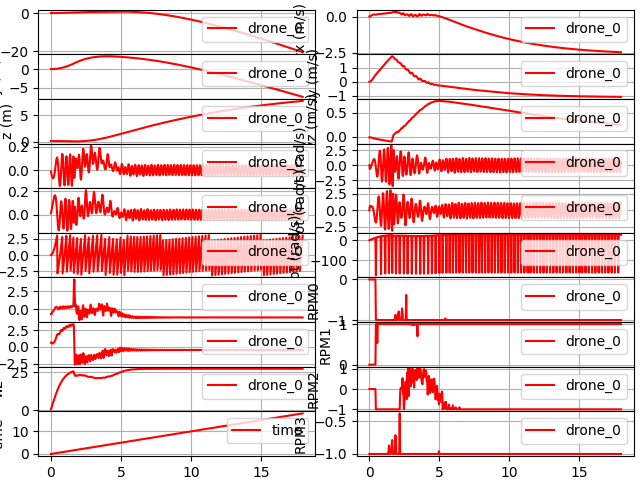
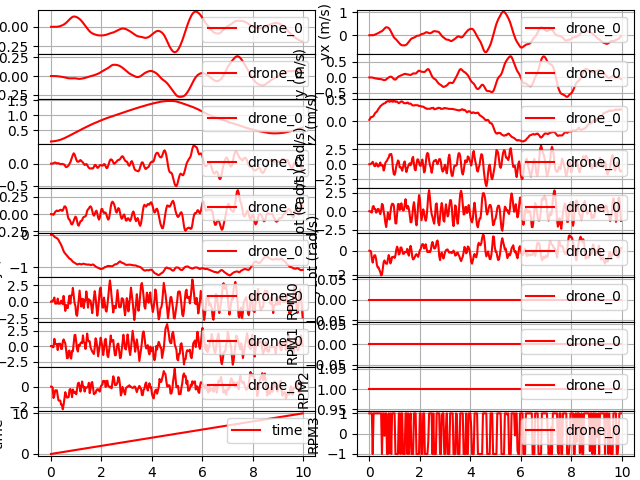
Better reward for hover

diff --git a/gym_pybullet_drones/envs/HoverAviary.py b/gym_pybullet_drones/envs/HoverAviary.py
@@ -49,7 +49,7 @@ class HoverAviary(BaseRLFlyToAviary):
             The type of action space (1 or 3D; RPMS, thurst and torques, or waypoint with PID control)
 
         """
-        self.EPISODE_LEN_SEC = 16
+        self.EPISODE_LEN_SEC = 8
         self.total_timesteps = 0
         super().__init__(drone_model=drone_model,
                          num_drones=1,
@@ -63,40 +63,38 @@ class HoverAviary(BaseRLFlyToAviary):
                          obs=obs,
                          act=act
                          )
-        self.TARGET_POINT = np.array([1, 1, 1])
+        self.TARGET_POINT = np.array([0, 1, 1])
 
     ################################################################################
-    
+
     def _computeReward(self):
-        """Computes the current reward value.
-
-        Returns
-        -------
-        float
-            The reward.
-
-        """
-        self.total_timesteps += 1
-
-        if self.total_timesteps % 100000 == 0:
-            self.TARGET_POINT = generate_random_target_point()
-        # if self.total_timesteps % 1000 == 0:
-        #     print(self.TARGET_POINT)
         state = self._getDroneStateVector(0)
-        distance = np.linalg.norm(self.TARGET_POINT - state[0:3])
+        pos = state[0:3]
+        vel = state[10:13]
+        rpy = state[7:10]
 
-        # Define max possible distance (depends on your environment)
-        max_distance = np.linalg.norm(self.TARGET_POINT)  # Adjust if necessary
+        vec_to_target = self.TARGET_POINT - pos
+        dist = np.linalg.norm(vec_to_target)
 
-        # Normalize reward to be between 0 and 1
-        EPS = 1e-6
-        reward = - distance
+        # Distance reward (normalized)
+        distance_reward = 1 - np.tanh(dist)
 
+        # Penalty for high velocity (to prevent crashing)
+        velocity_penalty = -0.05 * np.linalg.norm(vel)
 
-        return reward  # Ensure reward is non-negative
+        # Orientation penalty (to discourage excessive tilting and crashes)
+        orientation_penalty = -0.5 * (abs(rpy[0]) + abs(rpy[1]))
+
+        # Bonus for being very close to the target
+        close_enough_bonus = 10.0 if dist < 0.05 else 0.0
+
+        # Time penalty to encourage faster task completion
+        time_penalty = -0.02
+
+        return distance_reward + velocity_penalty + orientation_penalty + close_enough_bonus + time_penalty
 
     ################################################################################
-    
+
     def _computeTerminated(self):
         """Computes the current done value.
 
@@ -106,14 +104,15 @@ class HoverAviary(BaseRLFlyToAviary):
             Whether the current episode is done.
 
         """
-        state = self._getDroneStateVector(0)
-        if np.linalg.norm(self.TARGET_POINT - state[0:3]) < .0001:
+        threshold = .0001
+        dist = self.TARGET_POINT - self.pos[0, :]
+        if dist @ dist < threshold * threshold:
             return True
         else:
             return False
-        
+
     ################################################################################
-    
+
     def _computeTruncated(self):
         """Computes the current truncated value.
 
@@ -123,12 +122,12 @@ class HoverAviary(BaseRLFlyToAviary):
             Whether the current episode timed out.
 
         """
-        state = self._getDroneStateVector(0)
-        if (abs(state[0]) > 1.5 or abs(state[1]) > 1.5 or state[2] > 2.0 # Truncate when the drone is too far away
-             or abs(state[7]) > .4 or abs(state[8]) > .4 # Truncate when the drone is too tilted
+        dist = self.TARGET_POINT - self.pos[0, :]
+        if (dist @ dist > (self.TARGET_POINT @ self.TARGET_POINT) * 2  # Truncate when the drone is too far away
+                or abs(self.rpy[0, 0]) > .4 or abs(self.rpy[0, 1]) > .4  # Truncate when the drone is too tilted
         ):
             return True
-        if self.step_counter/self.PYB_FREQ > self.EPISODE_LEN_SEC:
+        if self.step_counter / self.PYB_FREQ > self.EPISODE_LEN_SEC:
             return True
         else:
             return False

diff --git a/gym_pybullet_drones/examples/run_model.py b/gym_pybullet_drones/examples/run_model.py
@@ -71,4 +71,4 @@ def run_model(path):
         logger.plot()
 
 
-run_model('results/save-03.31.2025_19.33.46/best_model.zip')
+run_model('results/save-04.09.2025_20.34.39/best_model.zip')
